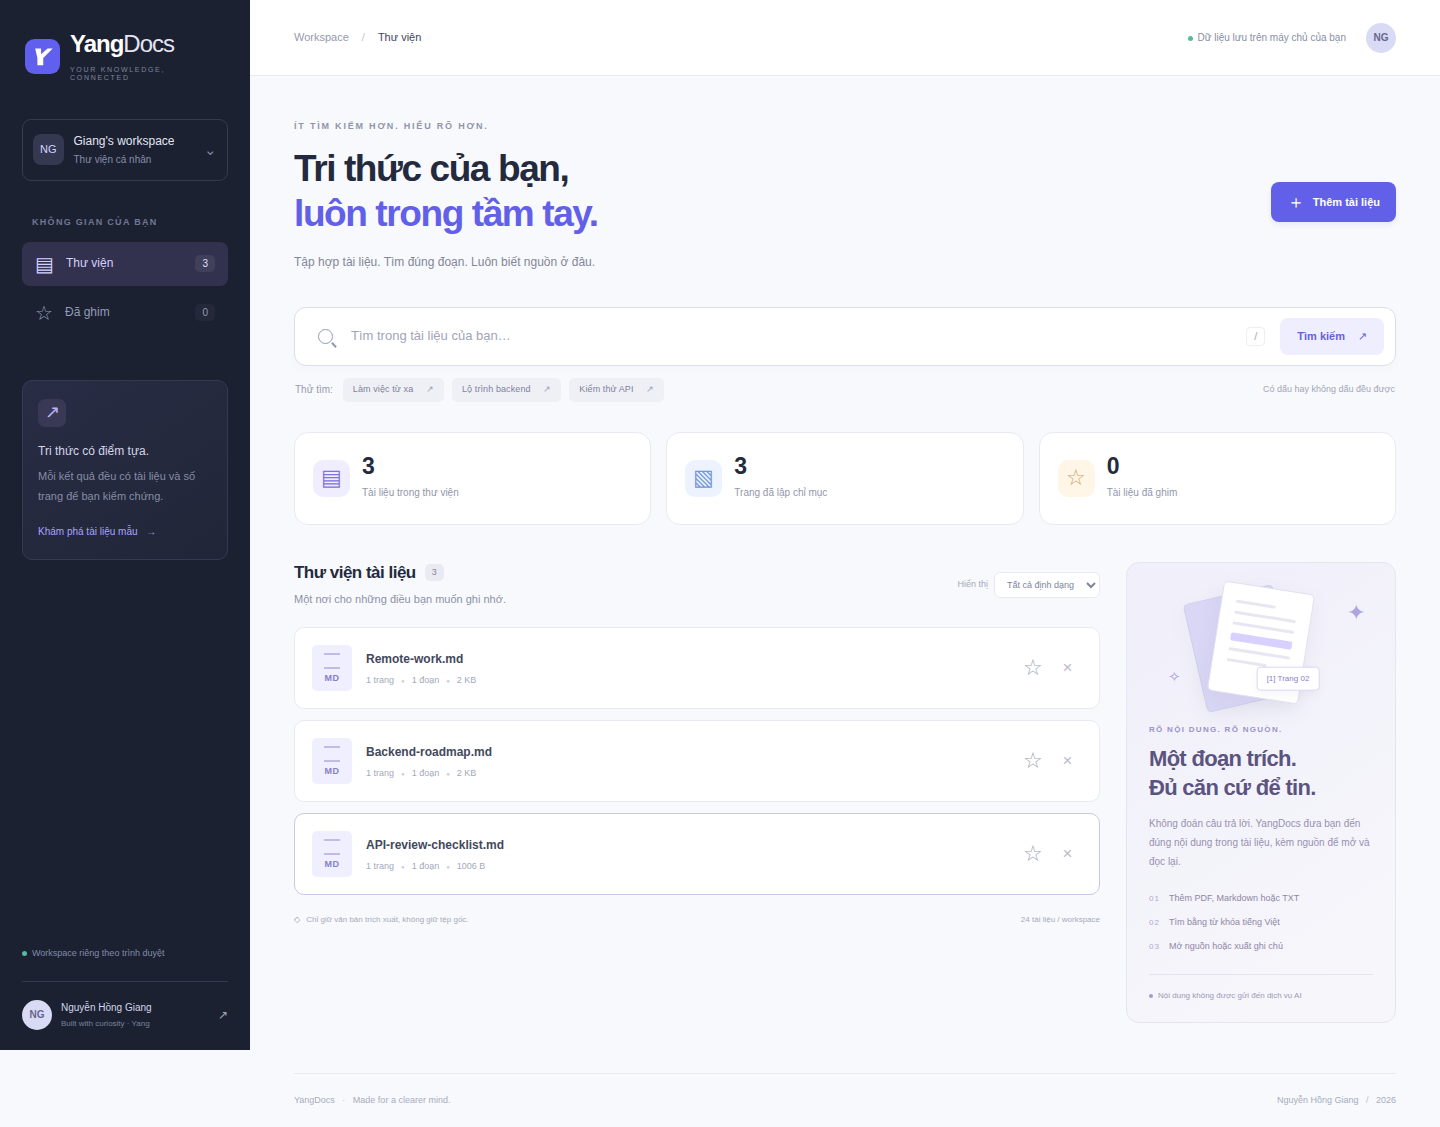
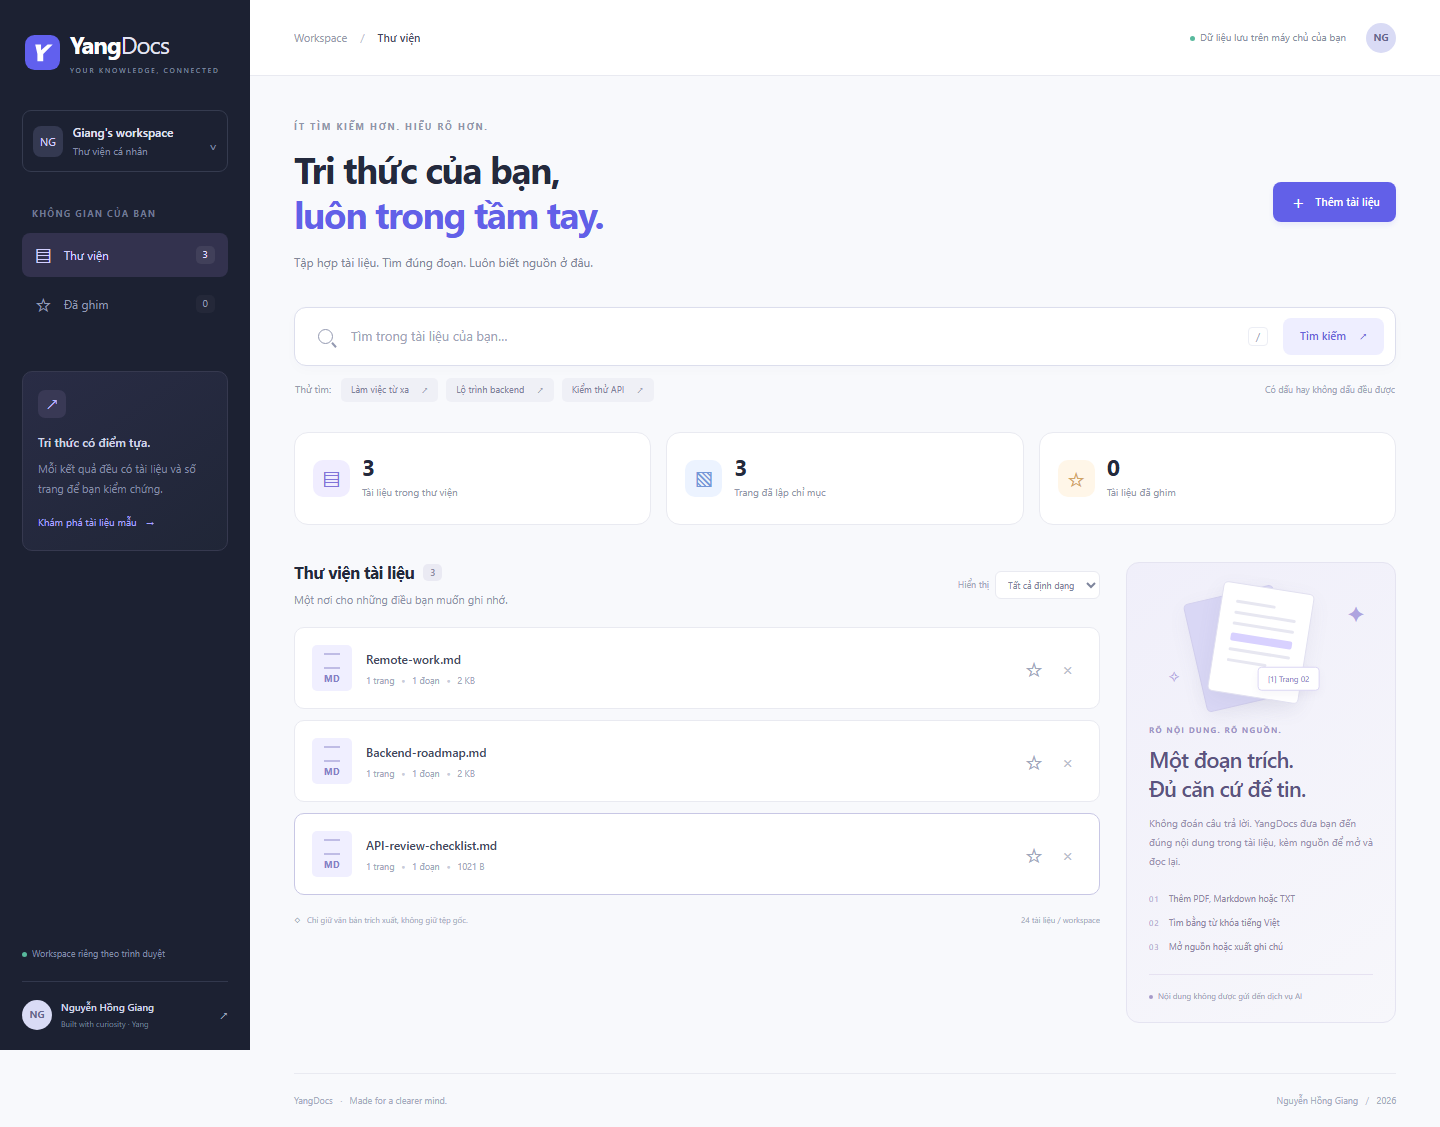
chore: prepare YangDocs standalone repository with preserved history

diff --git a/tests/test_ui.py b/tests/test_ui.py
@@ -92,8 +92,9 @@ def test_desktop_search_citation_export_and_screenshot(browser, server, tmp_path
         page.get_by_role("button", name="Xuất ghi chú").click()
     target = tmp_path / "notes.md"
     download.value.save_as(target)
-    assert "Remote-work.md" in target.read_text()
-    assert "Trang 1" in target.read_text()
+    exported_text = target.read_text(encoding="utf-8")
+    assert "Remote-work.md" in exported_text
+    assert "Trang 1" in exported_text
     assert errors == []
     context.close()
 

diff --git a/docs/repository-migration.md b/docs/repository-migration.md
@@ -1,0 +1,69 @@
+# Tách YangDocs thành repository riêng
+
+Ngày kiểm tra: **04/11/2026**.
+
+## Nguồn và lịch sử
+
+- Repository nguồn: [nguyenhonggiang2407/DTDD](https://github.com/nguyenhonggiang2407/DTDD).
+- Nhánh nguồn: [`yangdocs-preview`](https://github.com/nguyenhonggiang2407/DTDD/tree/yangdocs-preview).
+- Snapshot nguồn: [`29c218b69767592dc405594774f931c23c420c1e`](https://github.com/nguyenhonggiang2407/DTDD/commit/29c218b69767592dc405594774f931c23c420c1e).
+- Repository đích: [nguyenhonggiang2407/YangDocs](https://github.com/nguyenhonggiang2407/YangDocs), nhánh `main`.
+
+Bản tách được tạo bằng clone `--single-branch --branch yangdocs-preview` **không
+dùng `--depth`**, giữ cả chín commit reachable từ snapshot nguồn với nguyên SHA,
+tác giả và thời gian. Lịch sử bao gồm các commit tiền thân YangCareer vì chúng là
+tổ tiên của nhánh; không lọc, squash hoặc viết lại để tạo một lịch sử mới.
+Commit migration bổ sung nằm sau snapshot nguồn.
+
+Chỉ đổi tên nhánh trong bản copy thành `main`. Remote nguồn được đặt tên
+`upstream` và vô hiệu hóa push trong bản copy để tránh ghi nhầm vào DTDD.
+Không sửa hoặc xóa branch nguồn trong thao tác này. LICENSE, NOTICE.md và
+`upstream/workflow.py` giữ nguyên byte so với snapshot nguồn; các liên kết tới
+tác giả và ví dụ upstream trong NOTICE vẫn giữ để truy vết.
+
+## Các thay đổi phục vụ repository mới
+
+- README dùng URL clone của YangDocs, thêm link CI và hồ sơ migration.
+- Workflow `.github/workflows/ci.yml` chỉ theo dõi push vào `main`; bước commit
+  screenshot cũng chỉ áp dụng `main` của repo mới.
+- Browser test đọc file Markdown export bằng UTF-8 rõ ràng. Bản test cũ phụ thuộc
+  encoding mặc định của Windows (`cp1252`) và thất bại dù file export UTF-8 đúng.
+  Sửa này chỉ ở test, không đổi logic export hoặc runtime ứng dụng.
+- Tạo lại ba screenshot từ browser tests chạy thực tế và kiểm tra trực quan;
+  giữ đường dẫn tương đối `docs/screenshots/` để README chạy trên repo mới.
+
+Không thay schema, API, giới hạn upload, dữ liệu mẫu hoặc attribution.
+
+## Kiểm tra thực sự đã chạy
+
+Môi trường local Windows, Python **3.12.14**, Chromium **156.0.8078.4** từ
+Playwright **1.64.1**. Tái sử dụng virtualenv đã có, không tuyên bố đã thực hiện
+một lượt cài sạch mới.
+
+| Lệnh | Kết quả |
+| --- | --- |
+| `python -m pip check` | Không có dependency bị hỏng. |
+| `ruff check app tests` | Đạt. |
+| `ruff format --check app tests` | Tám file đúng định dạng. |
+| `python -m pytest tests/test_documents.py -q` | 28 kiểm thử đạt. |
+| `python -m pytest tests/test_ui.py -q` | Ba kiểm thử đạt sau sửa encoding test. |
+| `python -m compileall -q app` | Biên dịch cú pháp Python đạt. |
+| `node --check app/static/app.js` | Cú pháp JavaScript đạt. |
+
+Browser suite khởi động Uvicorn và SQLite thử riêng, kiểm tra tìm kiếm tiếng Việt,
+trích dẫn/trang nguồn/export, upload/ghim/xóa, render HTML như văn bản, điều khiển
+bàn phím và overflow mobile. Ảnh desktop dùng viewport 1440 × 1050, mobile
+390 × 844; ảnh full-page có thể cao hơn viewport.
+
+Có một cảnh báo deprecation từ Starlette về TestClient/httpx. Kết quả test đạt
+không đồng nghĩa dependency không có rủi ro hoặc ứng dụng đã được kiểm thử tải lớn.
+
+## Phần chưa xác minh
+
+- Không chạy Docker vì máy kiểm tra chưa có Docker. Hướng dẫn Compose giữ nguyên.
+- Chưa có live demo công khai được xác minh; chạy local theo README. Không gắn
+  homepage hoặc nhãn LIVE dựa trên giả định repo mới tự triển khai.
+- Kết quả CI trên GitHub của **repo mới** chỉ có sau khi publish/push. Các kết quả
+  local ở trên không được dùng thay trạng thái CI hoặc deployment.
+- Workspace theo cookie chưa phải đăng nhập tài khoản hay đồng bộ nhiều thiết bị;
+  giữ các giới hạn bảo mật/vận hành công khai đã nêu ở README.

diff --git a/README.md b/README.md
@@ -11,6 +11,10 @@ Python 3.12 · FastAPI · SQLite FTS5 · Vanilla JavaScript
 
 [Tính năng](#tính-năng) · [Chạy thử](#chạy-thử) · [Kiểm thử](#kiểm-thử) · [Nguồn gốc](#nguồn-gốc)
 
+[Mã nguồn](https://github.com/nguyenhonggiang2407/YangDocs) ·
+[CI](https://github.com/nguyenhonggiang2407/YangDocs/actions/workflows/ci.yml) ·
+[Lịch sử tách repository](docs/repository-migration.md)
+
 </div>
 
 ![Giao diện thư viện YangDocs trên máy tính](docs/screenshots/desktop.png)
@@ -35,7 +39,7 @@ không gửi nội dung tài liệu đến dịch vụ AI.** Văn bản được
 ### Python
 
 ```bash
-git clone --branch yangdocs-preview --single-branch https://github.com/nguyenhonggiang2407/DTDD.git YangDocs
+git clone https://github.com/nguyenhonggiang2407/YangDocs.git
 cd YangDocs
 python -m venv .venv
 source .venv/bin/activate
@@ -47,9 +51,10 @@ uvicorn app.main:app --reload --host 127.0.0.1 --port 8000
 Mở <http://127.0.0.1:8000>, chọn **Thử bộ tài liệu mẫu**, rồi tìm
 `lam viec tu xa` hoặc `backend`. Không cần đăng ký tài khoản hay cấu hình dịch vụ khác.
 
-Mã YangDocs hiện được lưu ở nhánh độc lập `yangdocs-preview` của repo DTDD.
-Nhánh `main` của repo tiếp tục chứa dự án YangCareer. Có thể chuyển nguyên
-nội dung nhánh này sang repo YangDocs riêng khi repo mới được tạo.
+YangDocs có repository riêng, nhánh mặc định `main`. Mã và lịch sử trước khi tách
+được giữ từ nhánh [`yangdocs-preview` của DTDD](https://github.com/nguyenhonggiang2407/DTDD/tree/yangdocs-preview).
+Nhánh gốc được giữ để đối chiếu; [bản ghi migration](docs/repository-migration.md)
+nêu commit nguồn và các kiểm tra đã thực hiện. Chưa công bố live demo của repo này.
 
 ### Docker
 
@@ -122,7 +127,8 @@ trùng, PDF mã hóa/ảnh quét, số trang thực của PDF nhiều trang, tì
 lọc tài liệu ghim, export, giới hạn tài liệu, phiên hết hạn và xóa khỏi FTS.
 Browser tests thực hiện upload → ghim → xem nguồn → hủy/xác nhận xóa, tìm kiếm
 → đọc trích dẫn → tải Markdown, render nội dung chứa HTML dưới dạng văn bản,
-kiểm tra overflow mobile và chụp giao diện thật. CI tạo ảnh bên dưới sau khi kiểm thử đạt.
+kiểm tra overflow mobile và chụp giao diện thật. Các ảnh bên dưới được tạo bởi
+browser tests; CI chạy lại cùng luồng và lưu artifact `yangdocs-screenshots`.
 
 <details>
 <summary>Ảnh tìm kiếm và giao diện mobile</summary>
